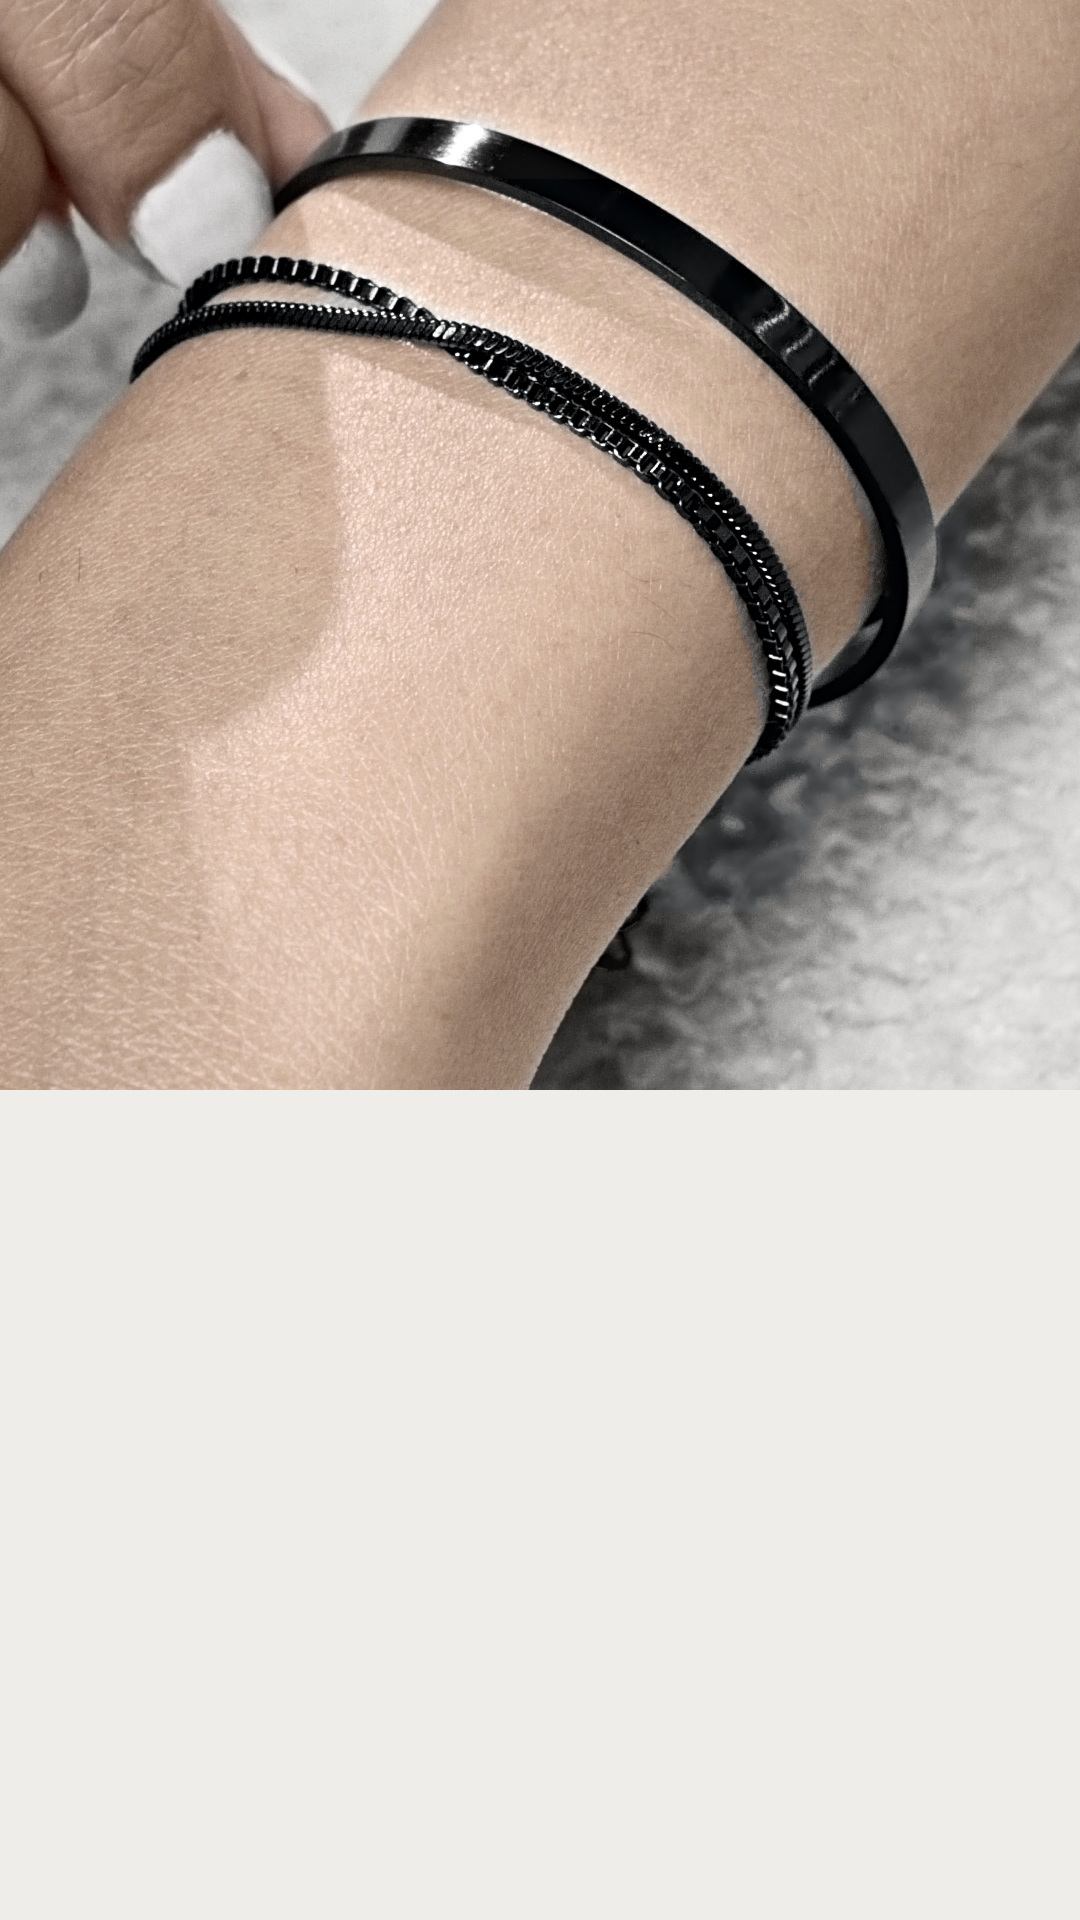
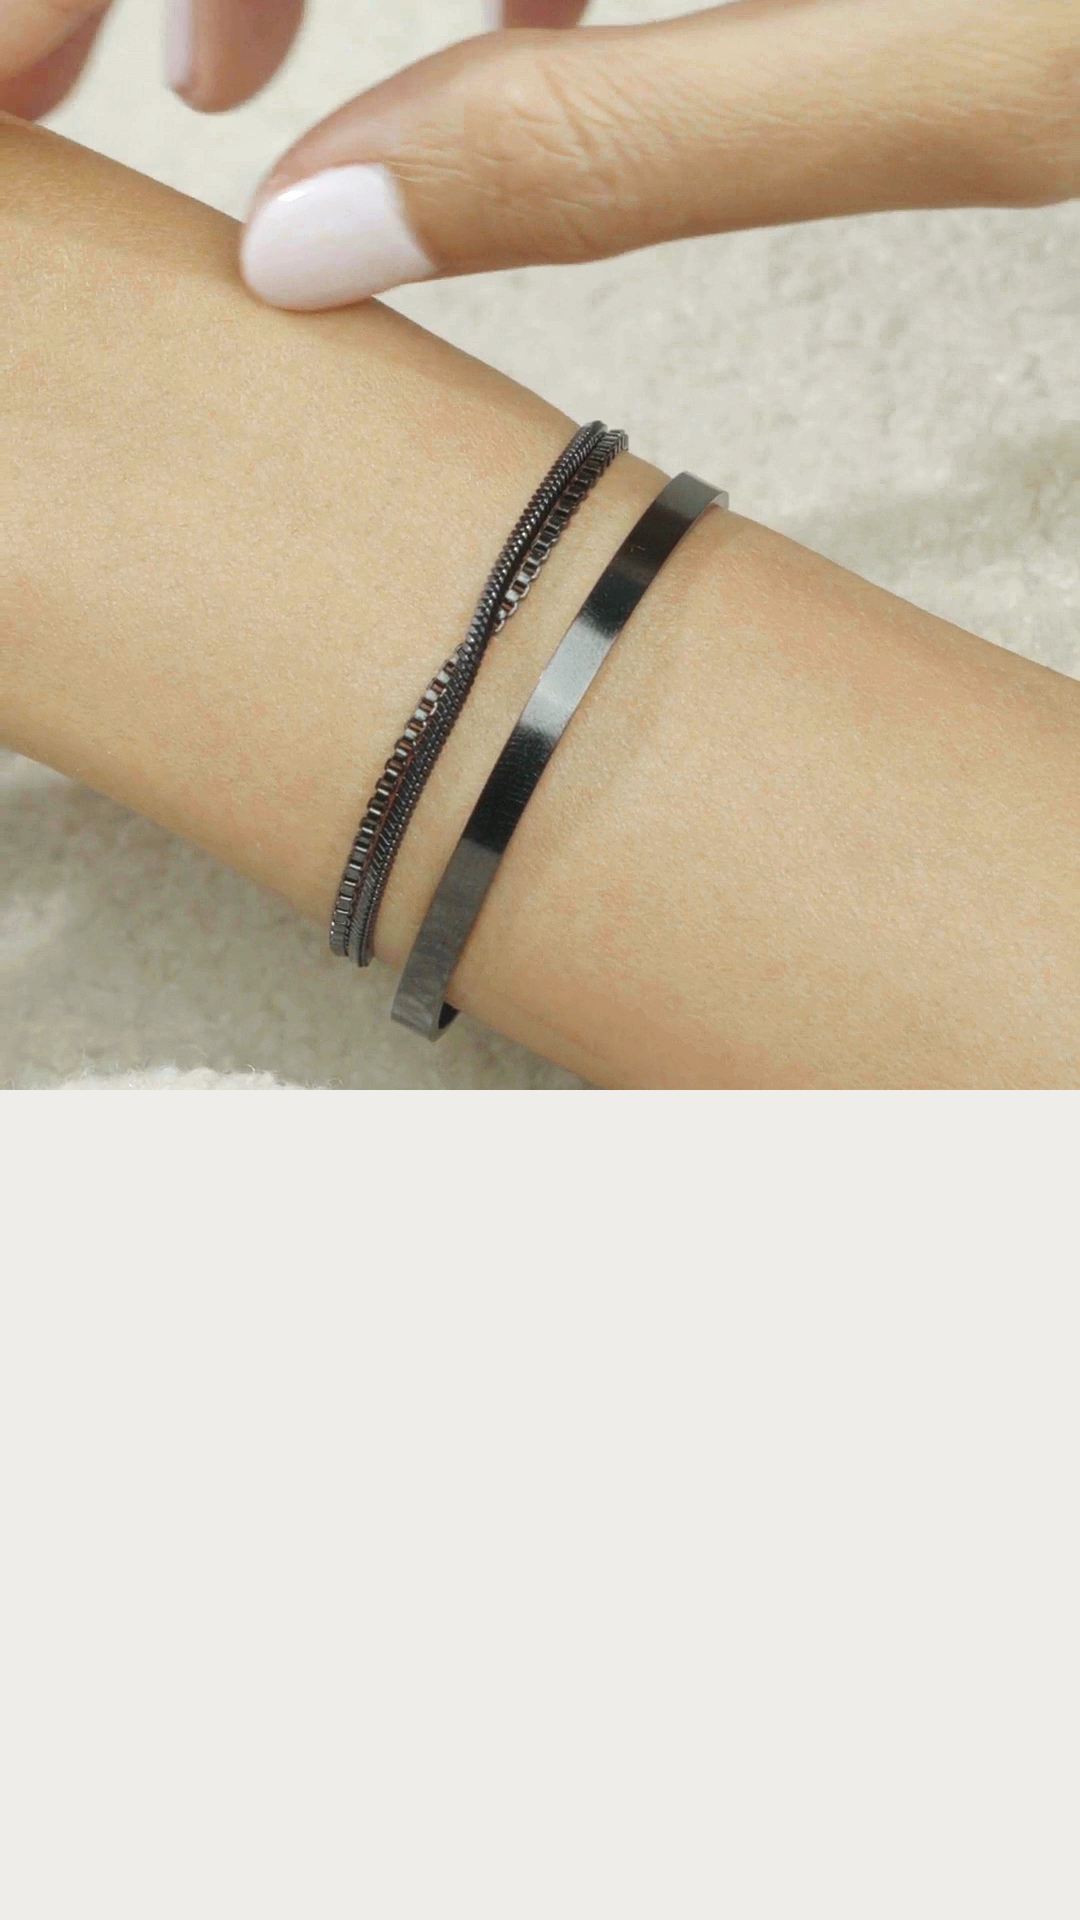
W421 back to the original stills (graded W422 frames); extra still-grading rules removed from the standard
Claude-Session: https://claude.ai/code/session_01LtGMNmy7hV4kZNsS3Vsb6Q

diff --git a/bfcm26/canvas/W421-C3.dc.html b/bfcm26/canvas/W421-C3.dc.html
@@ -15,12 +15,12 @@ a{color:#141414}a:hover{color:#000000}
 </style>
 </helmet>
 <div style="width: 1080px; height: 1920px; position: relative; overflow: hidden; background: #E8E2DA; font-family: Figtree, sans-serif; color: #141414">
-<div data-tag="status" style="position: absolute; top: 28px; left: 28px; z-index: 50; display: flex; flex-direction: column; align-items: flex-start; gap: 10px; pointer-events: none"><span style="padding: 12px 20px; background: #8FCBA2; color: #141414; font-family: Figtree, sans-serif; font-size: 28px; font-weight: 600; letter-spacing: 0.1em">CLICKUP ✓ DONE</span><span style="padding: 12px 20px; background: #8FCBA2; color: #141414; font-family: Figtree, sans-serif; font-size: 28px; font-weight: 600; letter-spacing: 0.1em">FRAME ✓ UPLOADED</span></div>
+<div data-tag="status" style="position: absolute; top: 28px; left: 28px; z-index: 50; display: flex; flex-direction: column; align-items: flex-start; gap: 10px; pointer-events: none"><span style="padding: 12px 20px; background: #8FCBA2; color: #141414; font-family: Figtree, sans-serif; font-size: 28px; font-weight: 600; letter-spacing: 0.1em">CLICKUP ✓ DONE</span><span style="padding: 12px 20px; background: #8FB8E8; color: #141414; font-family: Figtree, sans-serif; font-size: 28px; font-weight: 600; letter-spacing: 0.1em">FRAME · UPLOADING</span></div>
 
 
-<img src="/_blob/6cef879a48ff972a93ca1fc9e5c9025a" alt="A fingertip reaching for the black 3x Minimal - Stack Set on a sun-kissed wrist" style="position: absolute; top: 0; left: 0; width: 1080px; height: 1920px; object-fit: cover; display: block">
-<div style="position: absolute; top: 330px; left: 80px; width: 920px; display: flex; flex-direction: column; align-items: flex-start; gap: 18px; text-align: left">
-<span style="font-size: 24px; font-weight: 500; letter-spacing: 0.1em; color: #A82C24">BLACK FRIDAY · 30% OFF SITEWIDE</span>
+<img src="/_blob/c7ed51fdc079b75ed09e7011faca7cf4" alt="Fingers resting on a sun-kissed wrist wearing the black 3x Minimal - Stack Set" style="position: absolute; top: 0; left: 0; width: 1080px; height: 1920px; object-fit: cover; display: block">
+<div style="position: absolute; top: 1260px; left: 80px; width: 920px; display: flex; flex-direction: column; align-items: flex-start; gap: 18px; text-align: left">
+<span style="font-size: 22px; font-weight: 500; letter-spacing: 0.1em; color: #A82C24">BLACK FRIDAY · 30% OFF SITEWIDE</span>
 <h1 style="margin: 0; font-size: 52px; line-height: 1.15; letter-spacing: 0.04em; font-weight: 300; text-transform: uppercase">No code needed.<br><span style="font-weight: 400">Just 30% off.</span></h1>
 <a href="https://cavaier.com/products/3x-minimal-stack-set-for-her" style="display: inline-flex; align-items: center; justify-content: center; height: 80px; padding: 0 48px; background: #141414; color: #FFFFFF; text-decoration: none; font-size: 22px; font-weight: 500; letter-spacing: 0.1em">SHOP 30% OFF</a>
 </div>

diff --git a/bfcm26/canvas/W421-C2.dc.html b/bfcm26/canvas/W421-C2.dc.html
@@ -15,10 +15,10 @@ a{color:#141414}a:hover{color:#000000}
 </style>
 </helmet>
 <div style="width: 1080px; height: 1920px; position: relative; overflow: hidden; background: #E9E6E1; font-family: Figtree, sans-serif; color: #141414">
-<div data-tag="status" style="position: absolute; top: 28px; left: 28px; z-index: 50; display: flex; flex-direction: column; align-items: flex-start; gap: 10px; pointer-events: none"><span style="padding: 12px 20px; background: #8FCBA2; color: #141414; font-family: Figtree, sans-serif; font-size: 28px; font-weight: 600; letter-spacing: 0.1em">CLICKUP ✓ DONE</span><span style="padding: 12px 20px; background: #8FCBA2; color: #141414; font-family: Figtree, sans-serif; font-size: 28px; font-weight: 600; letter-spacing: 0.1em">FRAME ✓ UPLOADED</span></div>
+<div data-tag="status" style="position: absolute; top: 28px; left: 28px; z-index: 50; display: flex; flex-direction: column; align-items: flex-start; gap: 10px; pointer-events: none"><span style="padding: 12px 20px; background: #8FCBA2; color: #141414; font-family: Figtree, sans-serif; font-size: 28px; font-weight: 600; letter-spacing: 0.1em">CLICKUP ✓ DONE</span><span style="padding: 12px 20px; background: #8FB8E8; color: #141414; font-family: Figtree, sans-serif; font-size: 28px; font-weight: 600; letter-spacing: 0.1em">FRAME · UPLOADING</span></div>
 
 
-<img src="/_blob/7a5948761b2fdba6db705599f39b7180" alt="Lips and a sun-kissed wrist wearing the black 3x Minimal - Stack Set" style="position: absolute; top: 0; left: 0; width: 1080px; height: 1920px; object-fit: cover; display: block">
+<img src="/_blob/1d3767d1c1104ab67114a009bb9042c9" alt="Profile of a woman with her arm across her face, wearing the black 3x Minimal - Stack Set" style="position: absolute; top: -190px; left: -54px; width: 1188px; height: 2112px; object-fit: cover; display: block">
 <div style="position: absolute; top: 1260px; left: 80px; width: 920px; display: flex; flex-direction: column; align-items: flex-start; gap: 18px; text-align: left">
 <span style="font-size: 22px; font-weight: 500; letter-spacing: 0.1em; color: #A82C24">BLACK FRIDAY · 30% OFF SITEWIDE</span>
 <h1 style="margin: 0; font-size: 52px; line-height: 1.15; letter-spacing: 0.04em; font-weight: 300; text-transform: uppercase">Made to<br><span style="font-weight: 400">stay on.</span></h1>

diff --git a/bfcm26/canvas/W421-C1.dc.html b/bfcm26/canvas/W421-C1.dc.html
@@ -15,10 +15,10 @@ a{color:#141414}a:hover{color:#000000}
 </style>
 </helmet>
 <div style="width: 1080px; height: 1920px; position: relative; overflow: hidden; background: #EFEDEA; font-family: Figtree, sans-serif; color: #141414">
-<div data-tag="status" style="position: absolute; top: 28px; left: 28px; z-index: 50; display: flex; flex-direction: column; align-items: flex-start; gap: 10px; pointer-events: none"><span style="padding: 12px 20px; background: #8FCBA2; color: #141414; font-family: Figtree, sans-serif; font-size: 28px; font-weight: 600; letter-spacing: 0.1em">CLICKUP ✓ DONE</span><span style="padding: 12px 20px; background: #8FCBA2; color: #141414; font-family: Figtree, sans-serif; font-size: 28px; font-weight: 600; letter-spacing: 0.1em">FRAME ✓ UPLOADED</span></div>
+<div data-tag="status" style="position: absolute; top: 28px; left: 28px; z-index: 50; display: flex; flex-direction: column; align-items: flex-start; gap: 10px; pointer-events: none"><span style="padding: 12px 20px; background: #8FCBA2; color: #141414; font-family: Figtree, sans-serif; font-size: 28px; font-weight: 600; letter-spacing: 0.1em">CLICKUP ✓ DONE</span><span style="padding: 12px 20px; background: #8FB8E8; color: #141414; font-family: Figtree, sans-serif; font-size: 28px; font-weight: 600; letter-spacing: 0.1em">FRAME · UPLOADING</span></div>
 
 
-<img src="/_blob/2f8bc96485e26bde0213f930405294a4" alt="Fingers touching the black 3x Minimal - Stack Set on a sun-kissed wrist, white bouclé behind" style="position: absolute; top: 0; left: 0; width: 1080px; height: 1090px; object-fit: cover; object-position: 50% 50%; display: block">
+<img src="/_blob/971bc34b3a33b2b5e23b1cc104cfbda0" alt="Fingertips touching the black 3x Minimal - Stack Set on a sun-kissed wrist, white bouclé behind" style="position: absolute; top: 0; left: 0; width: 1080px; height: 1090px; object-fit: cover; object-position: 50% 40%; display: block">
 <div style="position: absolute; top: 1125px; left: 0; width: 1080px; display: flex; flex-direction: column; align-items: center; gap: 18px; text-align: center">
 <img src="/_blob/b5d78a878b48e10609c923597dd1852e" alt="Cavaier" style="width: 110px; height: auto; display: block">
 <span style="font-size: 22px; font-weight: 500; letter-spacing: 0.1em; color: #A82C24">BLACK FRIDAY · 30% OFF SITEWIDE</span>

diff --git a/CLAUDE.md b/CLAUDE.md
@@ -43,21 +43,10 @@ Before making any new batch, always ask Eli which method to use, with one short 
   - Backup and push.
   - Delivery via "push to clickup and frame".
 - Frame Method ads go in the video lanes (MEN +4820, WOMEN +14220) as their own row, one video per C slot, with the copy note at +8300. They're finished videos (no Seedance draft/final step).
-- **Stills cut from video (standard):** never grab stills from the share preview or a finished ad (those are about 1080p at 3 Mbps and look soft). Do this instead (full steps in FRAME_METHOD.md §Stills):
-  1. Pull the original camera file (2160×3840): the public share download menu has it (`bfcm26/video-ad/dlorig.js`), or use the Frame.io API.
-  2. Score every frame in a window of about ±0.5 s for sharpness and take the sharpest one, with no motion blur on the links.
-  3. Export it as a 16-bit PNG and apply the same grade as the video (tan rule).
-  4. Upscale with an AI upscaler only if the crop is smaller than its slot.
-  5. Grade and finish (Eli, W421 v2, matching his pro reference):
-     - Run `stillrun.sh CLIP TIME BOX grabcut|global`. It picks the sharpest frame, grades it straight from the 4K original with `pro_grade.py`, then runs `retouch.py` with natural skin and the jewelry pass.
-     - Then `finish.py` adds light falloff and does the crop.
-     - The look: muted golden sun-kissed tan (Lab a≈7 / b≈13.5, deeper), never pink or yellow.
-     - Skin colour is even but keeps its natural variation, and pores are never smoothed.
-     - Whites and greys are neutral and blacks are true; everything else stays quiet graphite.
-     - Use `global` when the frame is nearly all skin, `grabcut` when there's bouclé or a wall.
-     - Cropping is free (variety). Never upscale.
-     - Keep the copy clear of the jewelry; move the text block if needed.
-  6. Check it at 100%: links crisp with no halos, skin texture real (not plastic), no invented detail. Tune the pass if anything is overdone.
+- **Stills cut from video (Eli, W421):**
+  - Keep it simple: grab the still from the graded video, the same look as the Frame Method ad (`grade.py` on the frame), and build the static on it.
+  - No extra grading pipeline. Eli rejected the pro_grade / retouch / finish passes on W421; the scripts stay in `bfcm26/video-ad/` but are not the standard.
+  - Cropping is free, for variety.
 - For the delivery upload, use the Frame.io API flow under **Delivery**. The RAW footage is read through the public share in a headless browser (FRAME_METHOD.md §4).
 
 ## Workflow

diff --git a/bfcm26/video-ad/FRAME_METHOD.md b/bfcm26/video-ad/FRAME_METHOD.md
@@ -170,7 +170,8 @@ Use `grade.py`, never one blanket filter for all clips:
 - White text on white foam or bright walls disappears: change the shot or move the text.
 
 
-## Stills cut from video (standard for static ads made from Frame footage)
+## Stills cut from video (NOT the standard: Eli rejected this on W421, 14 Oct)
+The standard is the simple way: take the still from the graded video (`grade.py` look) and build the static on it. The steps below are kept only as reference and tools.
 1. **Source:** download the ORIGINAL camera file (C####.MP4, 2160×3840, about 58 Mbps). The public share's Download menu lists it as the top "2160x3840" entry (`dlorig.js`, no login needed); the Frame.io V4 API also works. Never use the share's web preview or a finished ad export, which are about 1080×1920 at 3 Mbps and look soft and blocky.
 2. **Frame pick:** extract every frame in a window of about ±0.5 s around the chosen moment as lossless PNG (`ffmpeg -ss t-0.5 -t 1 -i src -vsync 0 f_%03d.png`). Score each one for sharpness (variance of Laplacian on the jewelry/wrist crop) and keep the sharpest one with no motion blur on the box-chain and square-chain links.
 3. **Grade:** originals are full-range, so grade.py's filter does not land the same look on them. Instead, match the original frame to the approved graded still or video frame with `stillmatch.py` (per-channel quantile match learned on the same moment, applied in 16-bit). Otherwise use the same look as the video, applied to the still (grade.py filter chain on the single frame, GRADE_ADAPT as in the video), so the skin follows the tan rule. Save as 16-bit PNG and keep the JPEG step until the very end.
